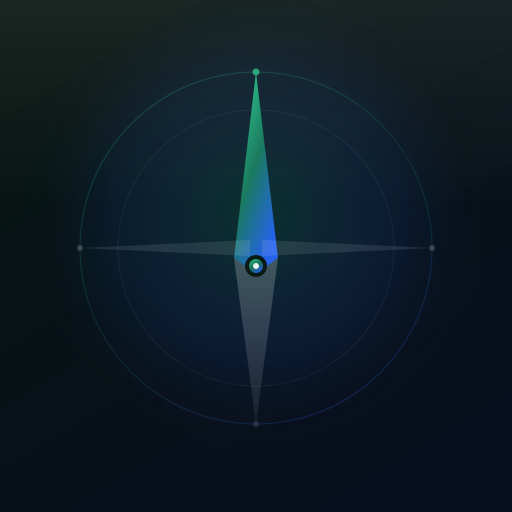
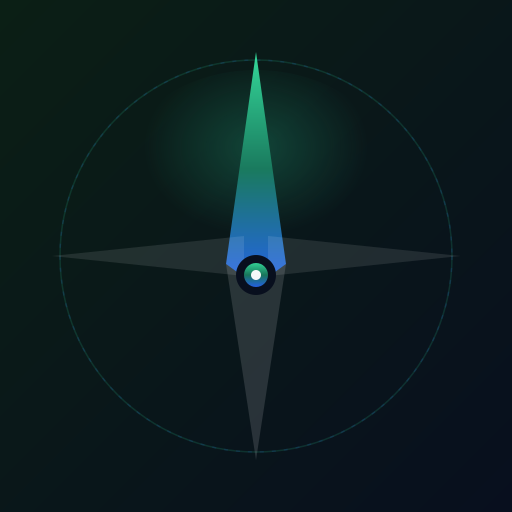
fix: ikona zelená→modrá gradient + dots nad CTA v onboardingu

diff --git a/components/OnboardingFlow.tsx b/components/OnboardingFlow.tsx
@@ -103,8 +103,8 @@ export default function OnboardingFlow() {
         </motion.div>
       </AnimatePresence>
 
-      {/* Dots indicator — pozice nad CTA tlačítkem (~80px od spodku) */}
-      <div className="absolute bottom-0 left-0 right-0 flex justify-center gap-2 z-50 pointer-events-none" style={{ paddingBottom: "calc(88px + env(safe-area-inset-bottom, 16px))" }}>
+      {/* Dots indicator — pevně nad CTA, nikdy ho nepřekrývají */}
+      <div className="absolute left-0 right-0 flex justify-center gap-2 z-50 pointer-events-none" style={{ bottom: "calc(80px + env(safe-area-inset-bottom, 0px))" }}>
         {SLIDES.map((_, i) => (
           <motion.button
             key={i}